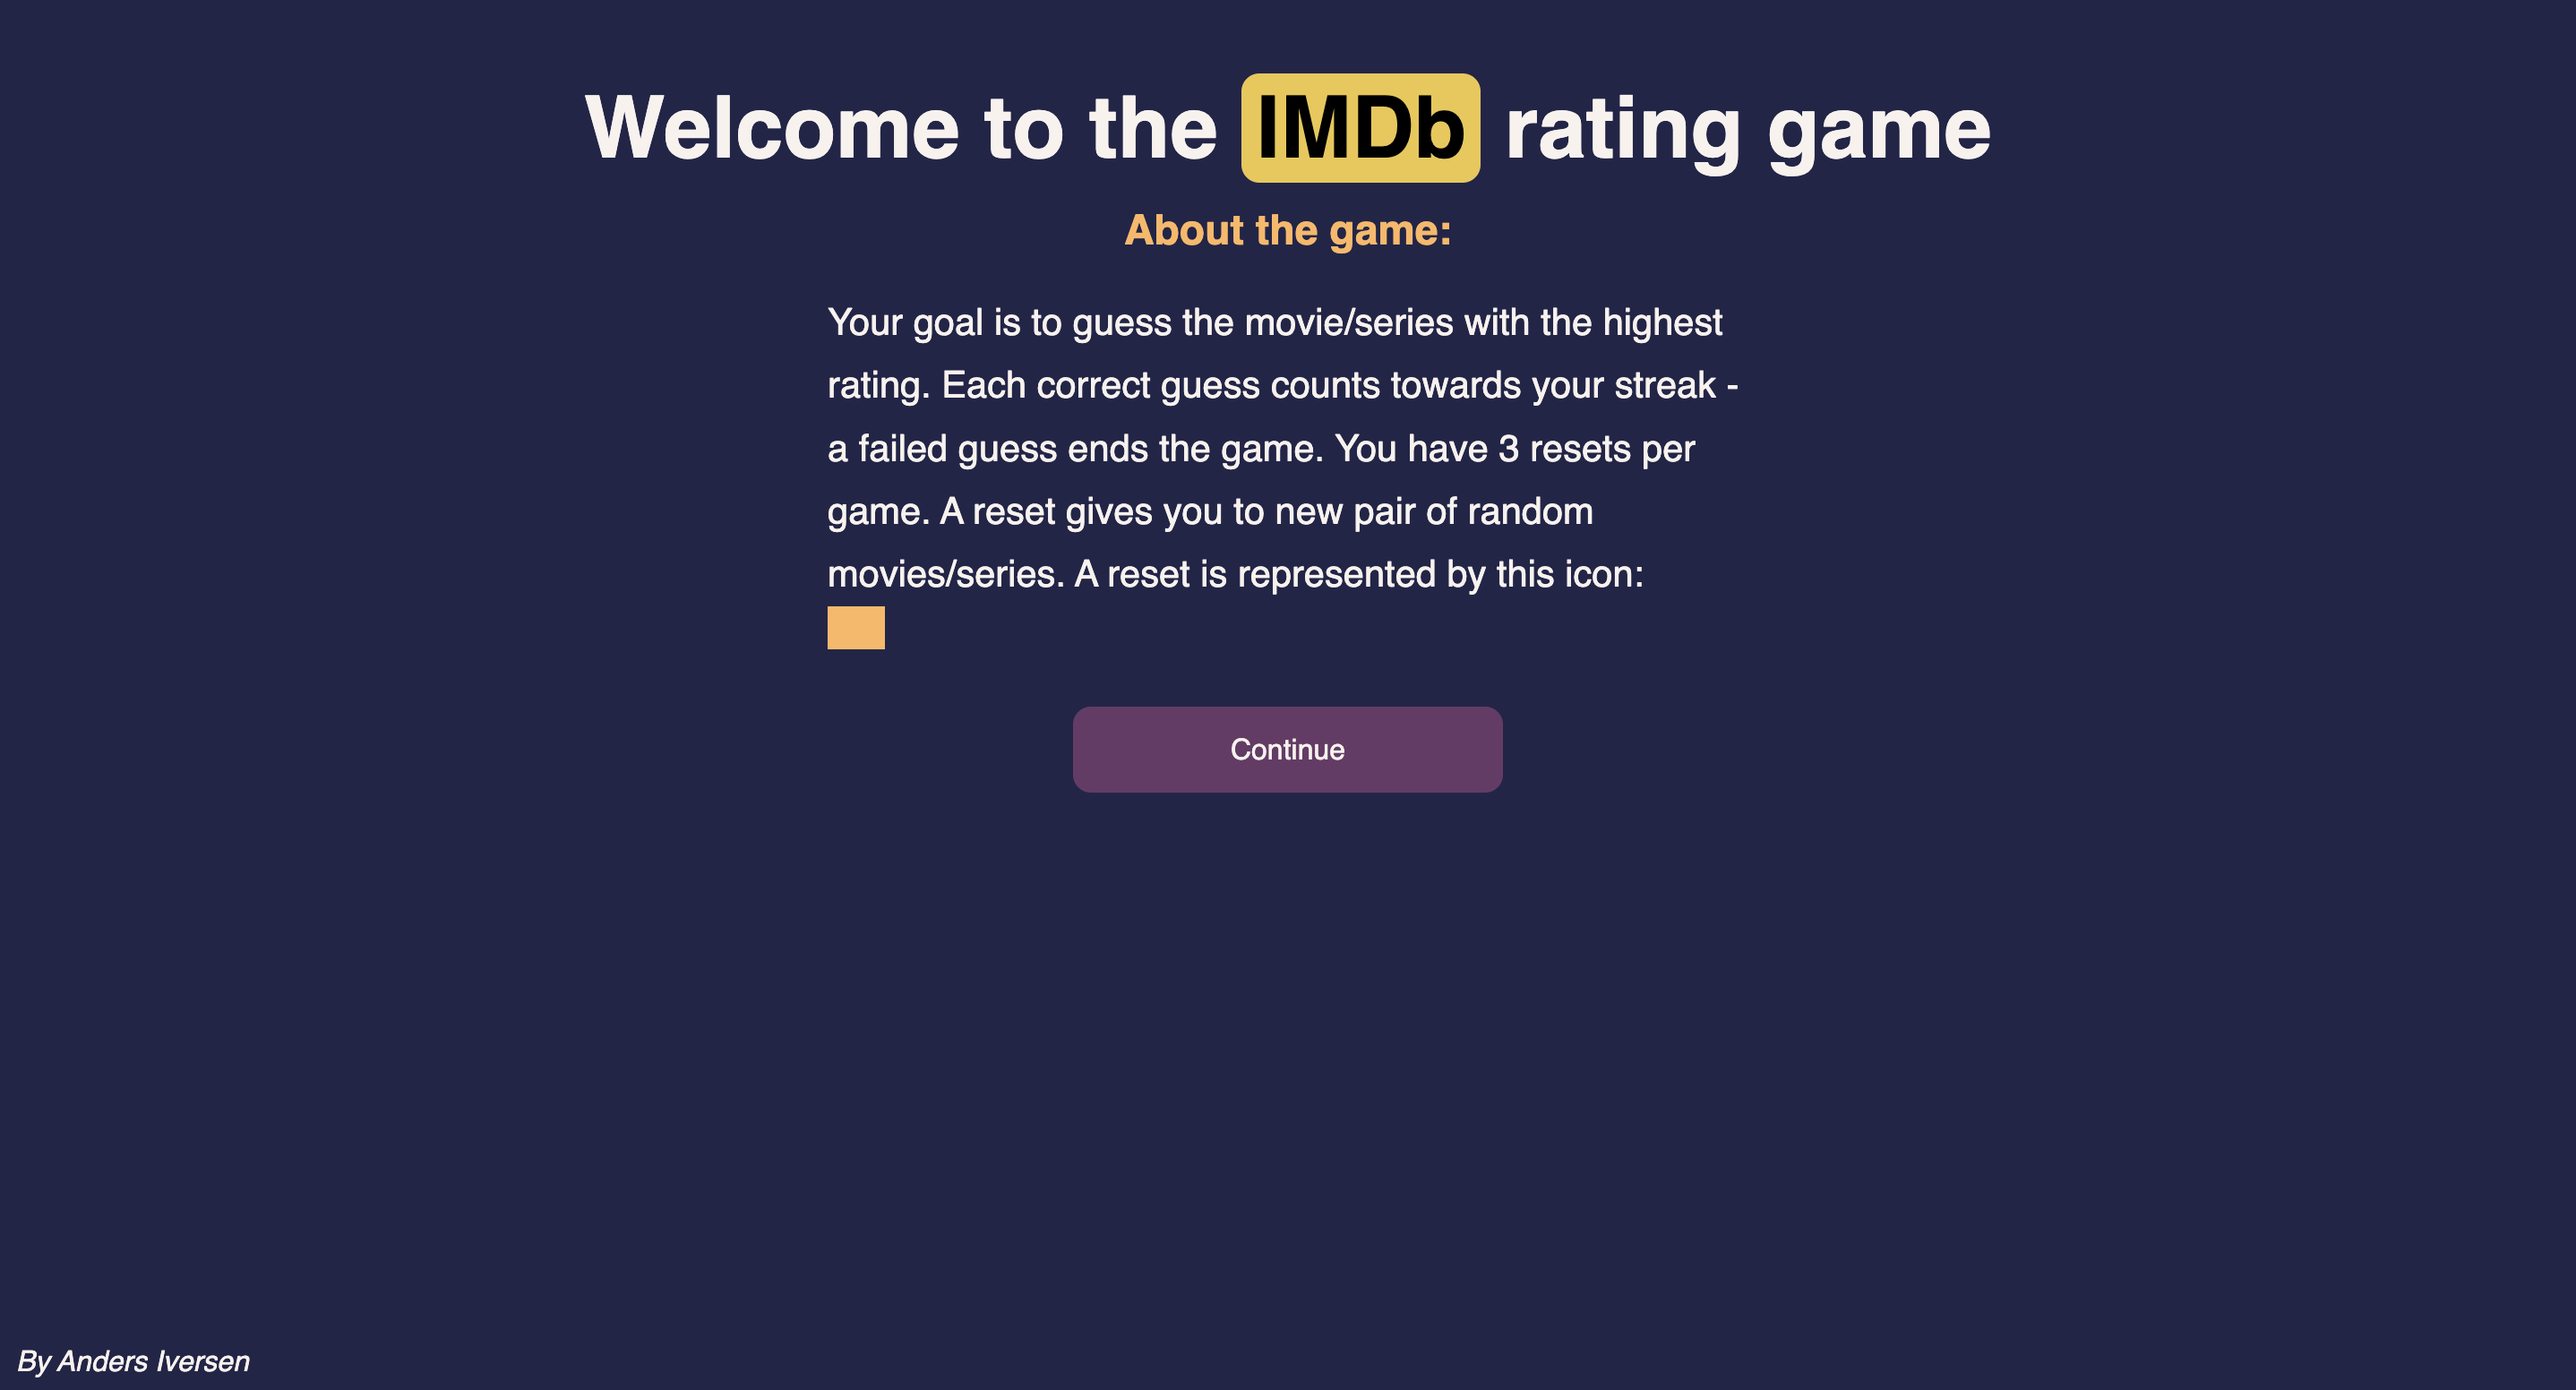
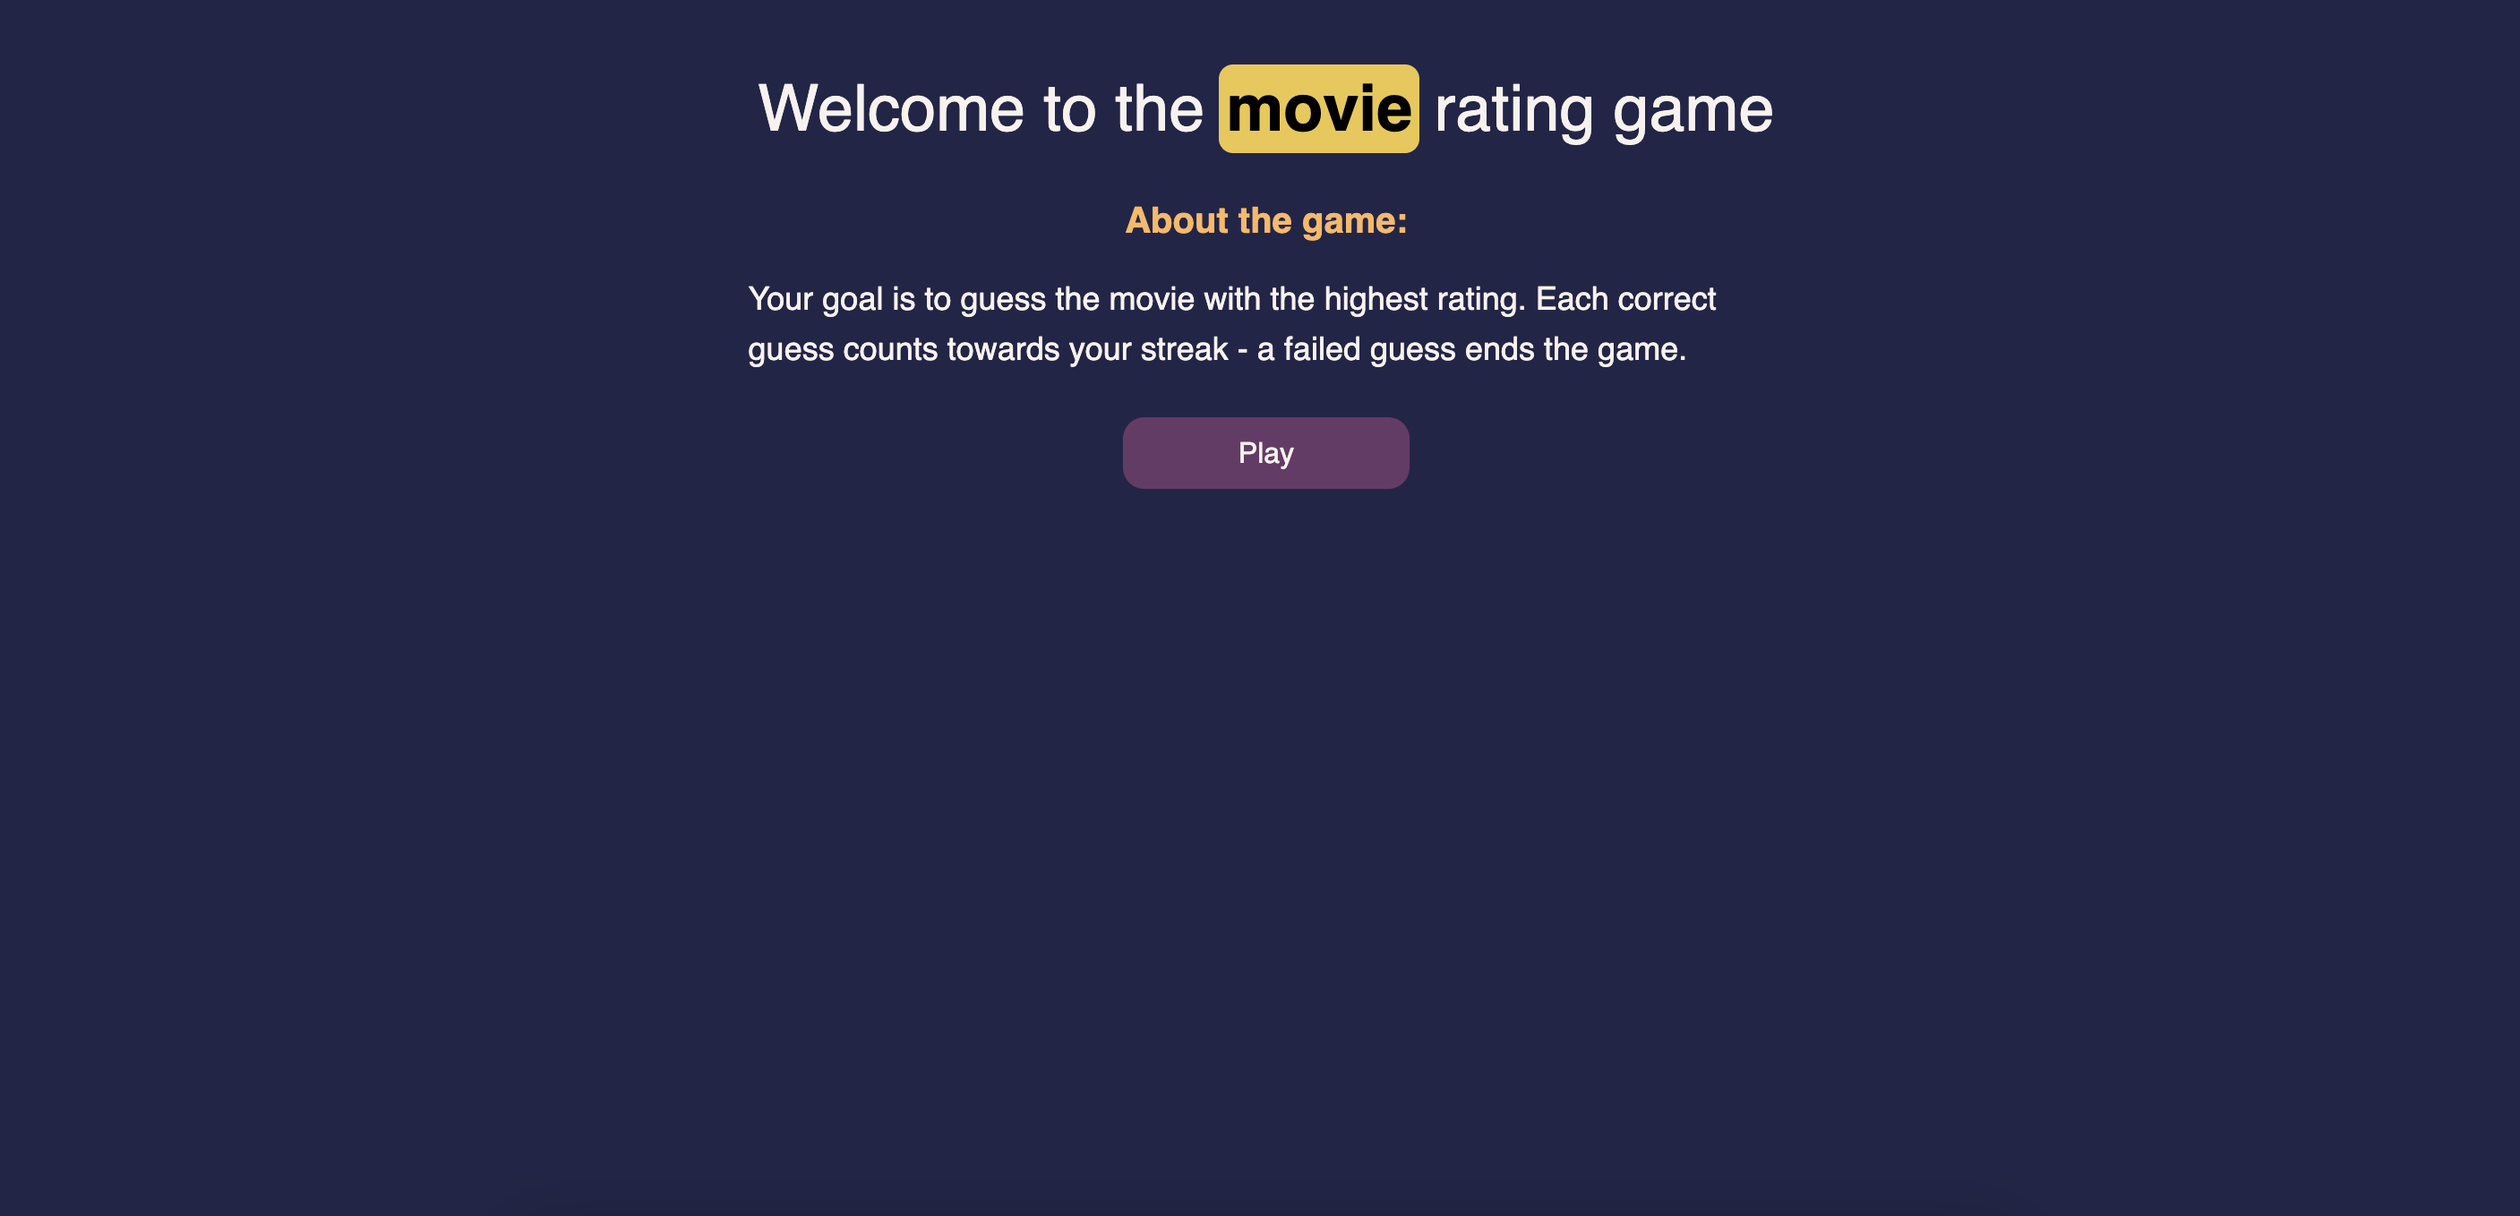
Updated imdb game

Changed region(s): [[0.2164, 0.0309, 0.7729, 0.4639], [0.4019, 0.4948, 0.5874, 0.5876], [0.0, 0.9588, 0.0928, 0.9897]]

diff --git a/src/data/projects.js b/src/data/projects.js
@@ -19,9 +19,9 @@ export const projectData = [
   },
   {
     link: '/projects/rating-game/',
-    heading: 'IMDb rating game',
+    heading: 'Movie rating game',
     img: imdbImage,
-    desc: 'Guess which movies/series has the highest rating. Game Made with vanilla JavaScript.',
+    desc: 'Guess which movie has the highest rating. Game Made with React and TypeScript.',
     tag: 'imdb'
   },
 ]
